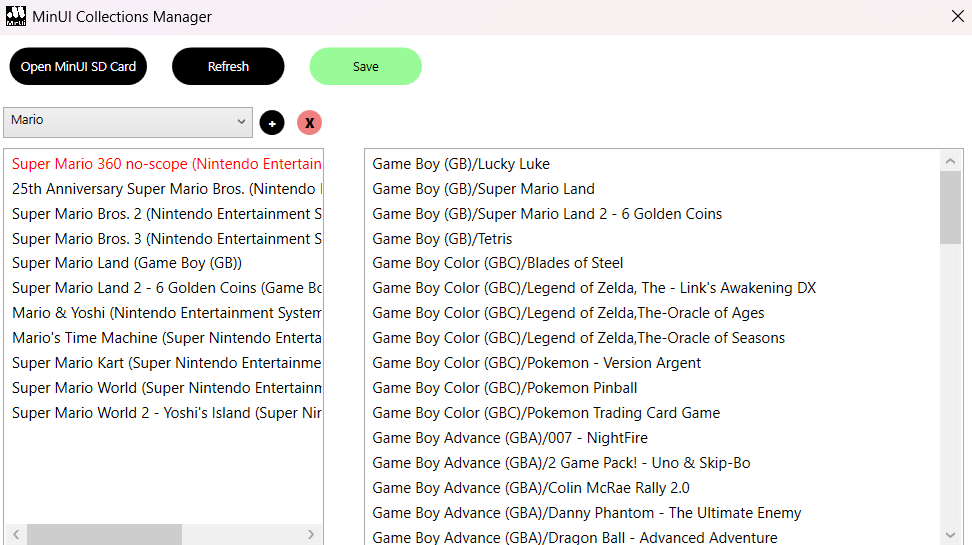
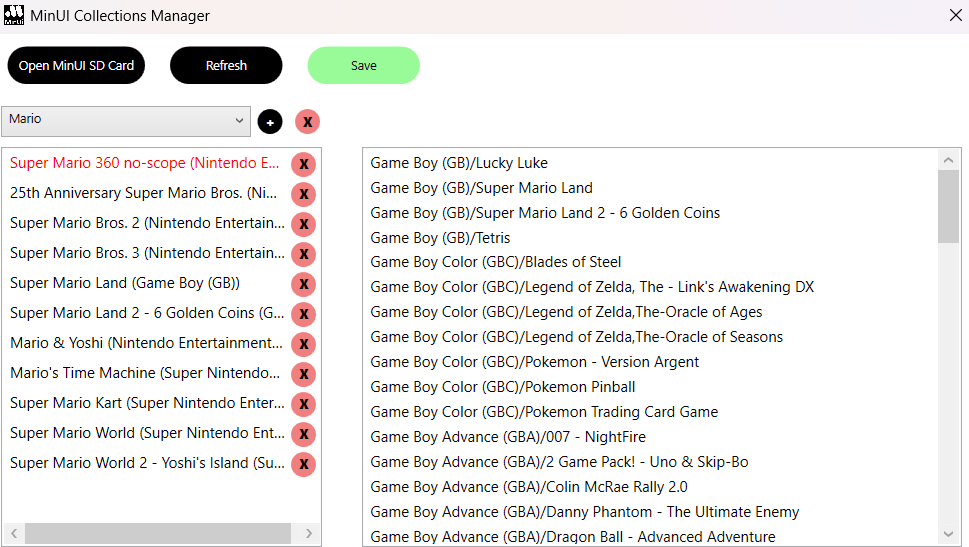
Updated collection list appearance

diff --git a/MinuiCollectionsManager/MinuiCollectionsManager/CollectionsManager.xaml b/MinuiCollectionsManager/MinuiCollectionsManager/CollectionsManager.xaml
@@ -96,7 +96,7 @@
                     <ListBox.ItemTemplate>
                         <DataTemplate>
                             <StackPanel Orientation="Horizontal">
-                                <TextBlock Text="{Binding DisplayNameWithParentAlt}" Width="220" MaxWidth="220" TextTrimming="CharacterEllipsis">
+                                <TextBlock Text="{Binding DisplayNameWithParentAlt}" Width="215" MaxWidth="215" TextTrimming="CharacterEllipsis">
                                     <TextBlock.Style>
                                         <Style TargetType="TextBlock">
                                             <Style.Triggers>
@@ -107,7 +107,7 @@
                                         </Style>
                                     </TextBlock.Style>
                                 </TextBlock>
-                                <Button Content="X" Click="DeleteGame_Click" Tag="{Binding}" HorizontalAlignment="Left" VerticalAlignment="Center" FontSize="10" Height="20" Width="20" Margin="5 0"
+                                <Button Content="X" Click="DeleteGame_Click" Tag="{Binding}" HorizontalAlignment="Left" VerticalAlignment="Center" FontSize="10" Height="20" Width="20" Margin="5 0 0 0"
                                         FontWeight="Black" Background="LightCoral" Foreground="Black">
                                     <Button.Template>
                                         <ControlTemplate TargetType="Button">
